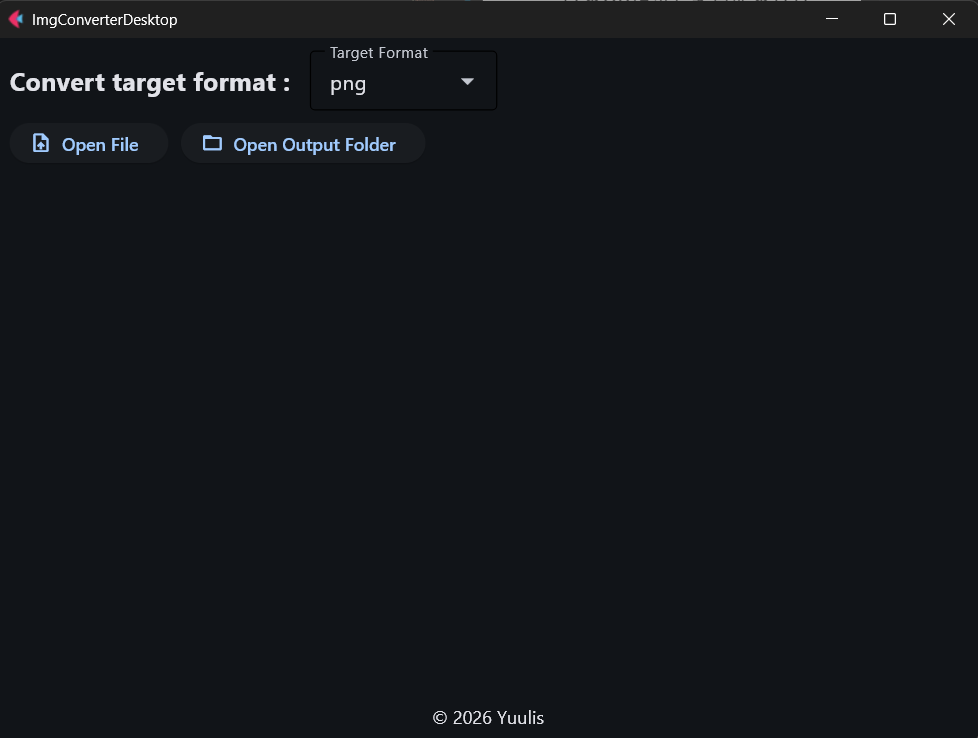
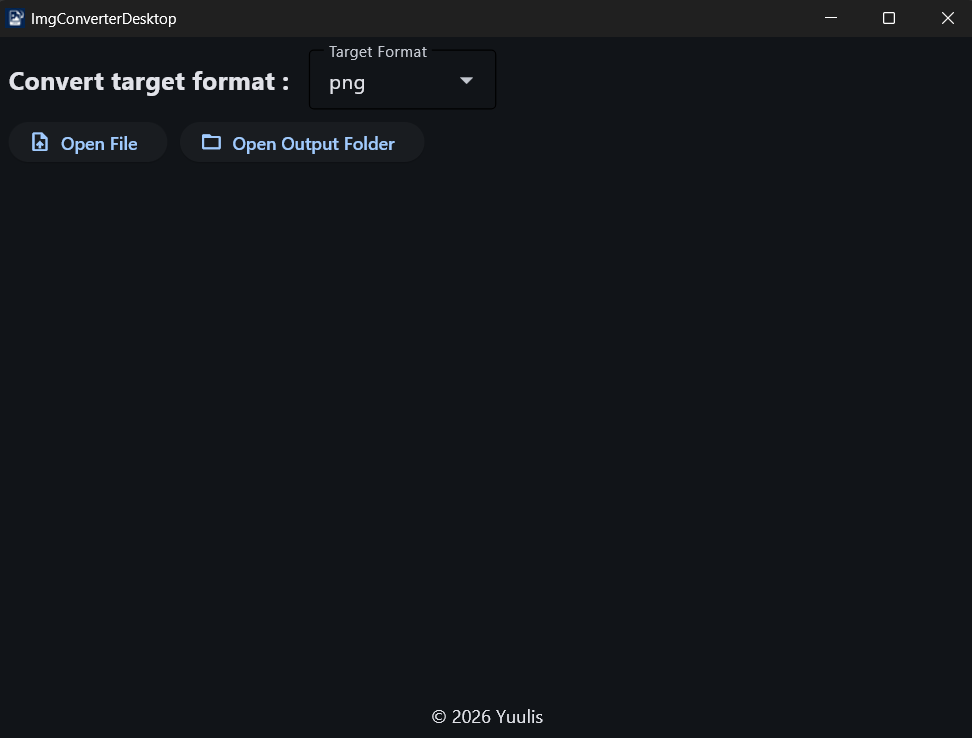
READMEの更新

diff --git a/README.md b/README.md
@@ -1,37 +1,98 @@
 <h1 align="center">ImgConverterDesktop</h1>
 
-
 <p align="center">
-<img alt="GitHub Release" src="https://img.shields.io/github/v/release/Yuulis/ImgConverterDesktop">
-<img alt="Python Version from PEP 621 TOML" src="https://img.shields.io/python/required-version-toml?tomlFilePath=https%3A%2F%2Fraw.githubusercontent.com%2FYuulis%2FImgConverterDesktop%2Frefs%2Fheads%2Fmain%2Fpyproject.toml">
-<img alt="GitHub License" src="https://img.shields.io/github/license/Yuulis/ImgConverterDesktop">
-<img alt="GitHub Actions Workflow Status" src="https://img.shields.io/github/actions/workflow/status/Yuulis/ImgConverterDesktop/release-build.yml">
-
+  <img alt="GitHub Release" src="https://img.shields.io/github/v/release/Yuulis/ImgConverterDesktop">
+  <img alt="Python Version from PEP 621 TOML" src="https://img.shields.io/python/required-version-toml?tomlFilePath=https%3A%2F%2Fraw.githubusercontent.com%2FYuulis%2FImgConverterDesktop%2Frefs%2Fheads%2Fmain%2Fpyproject.toml">
+  <img alt="GitHub License" src="https://img.shields.io/github/license/Yuulis/ImgConverterDesktop">
+  <img alt="GitHub Actions Workflow Status" src="https://img.shields.io/github/actions/workflow/status/Yuulis/ImgConverterDesktop/release-build.yml">
+  <br>
+  <img alt="Windows" src="https://img.shields.io/badge/Windows-0078D6?logo=windows&logoColor=white">
+  <img alt="macOS" src="https://img.shields.io/badge/macOS-000000?logo=apple&logoColor=white">
+  <img alt="Linux" src="https://img.shields.io/badge/Linux-FCC624?logo=linux&logoColor=black">
 </p>
 
-シンプルなデスクトップ向け画像形式変換アプリケーション
+<p align="center">シンプルなデスクトップ向け画像形式変換アプリケーション</p>
+
+---
 
 ## 機能
 
-- PNG / JPEG / WebP / TIFF / GIF / BMP / PDF / ICO / EPS など 24 以上のフォーマットに対応。
-- `pillow-heif` による HEIC/HEIF 形式もサポート。
-- 変換元・変換先の形式・画像サイズ・ファイルサイズを表示するサムネイルプレビュー。
-- アプリ上から変換後の画像に直接アクセス可能。
-- Windows / Mac OS / Linux で動作するクロスプラットフォーム対応。
+- PNG / JPEG / WebP / TIFF / GIF / BMP / PDF / ICO / EPS など 24 以上のフォーマットに対応
+- `pillow-heif` による HEIC/HEIF 形式もサポート
+- 変換元・変換先の形式・画像サイズ・ファイルサイズを表示するサムネイルプレビュー
+- アプリ上から変換後の画像に直接アクセス可能
+- Windows / macOS / Linux で動作するクロスプラットフォーム対応
+
+## スクリーンショット
+
+![メイン画面](screenshots/main.png)
 
 ## インストール
 
-1. [Releases](https://github.com/Yuulis/ImgConverterDesktop/releases) ページから、お使いのOSに適した最新のリリースを Zip 形式でダウンロード。
-2. ダウンロードした Zip ファイルを解凍し、生成されたフォルダ内の実行ファイル `imgconverterdesktop.exe` を起動。
+[Releases](https://github.com/Yuulis/ImgConverterDesktop/releases) ページから、お使いの OS に適した最新のリリースをダウンロードしてください。
+
+| OS | ダウンロードファイル | 起動方法 |
+|----|----------------------|----------|
+| Windows | `ImgConverterDesktop-x.x.x-windows.zip` を解凍 | `imgconverterdesktop.exe` を実行 |
+| macOS | `ImgConverterDesktop-x.x.x-macos.zip` を解凍 | `ImgConverterDesktop.app` を起動 |
+| Linux | `ImgConverterDesktop-x.x.x-linux.zip` を解凍 | `imgconverterdesktop` を実行 |
 
 ## 使い方
 
-![起動後のアプリ画面](screenshots/main.png)
+1. 変換形式をプルダウンメニューから選択
+2. 「Open File」ボタンを押して、変換したい画像ファイルを選択（複数選択可）
+3. 画像選択後、自動的に変換が開始され、サムネイルプレビューに変換前・変換後の画像が表示されます
+4. 「Open Output Folder」ボタンを押して、変換後の画像が保存されるフォルダにアクセス可能
 
-1. まずは変換形式をプルダウンメニューから選択。
-2. 「Open File」ボタンを押して、変換したい画像ファイルを選択(複数選択可)。
-3. 画像選択後、自動的に変換が開始され、サムネイルプレビューに変換前・変換後の画像が表示されます。
-4. 「Open Output Folder」ボタンを押して、変換後の画像が保存されるフォルダにアクセス可能。
+## 不具合の報告
+
+バグを発見した場合は [GitHub Issues](https://github.com/Yuulis/ImgConverterDesktop/issues) よりご報告ください。
+報告の際は以下の情報を含めていただけると助かります。
+
+- OS とバージョン（例: Windows 11, macOS 15.x, Ubuntu 24.04）
+- アプリのバージョン
+- 再現手順
+- 期待する動作と実際の動作
+
+## 開発者向け
+
+### 前提条件
+
+- Python 3.10 以上
+- [uv](https://docs.astral.sh/uv/)
+
+### セットアップ
+
+```bash
+# リポジトリのクローン
+git clone https://github.com/Yuulis/ImgConverterDesktop.git
+cd ImgConverterDesktop
+
+# 依存関係のインストール
+uv sync --all-groups
+
+# アプリの起動
+uv run flet run src
+```
+
+### テスト
+
+```bash
+uv run python -m unittest discover -s tests -p "test_*.py" -v
+```
+
+### ビルド
+
+```bash
+# Windows
+uv run flet build windows
+
+# macOS
+uv run flet build macos
+
+# Linux
+uv run flet build linux
+```
 
 ## プロジェクトについて
 